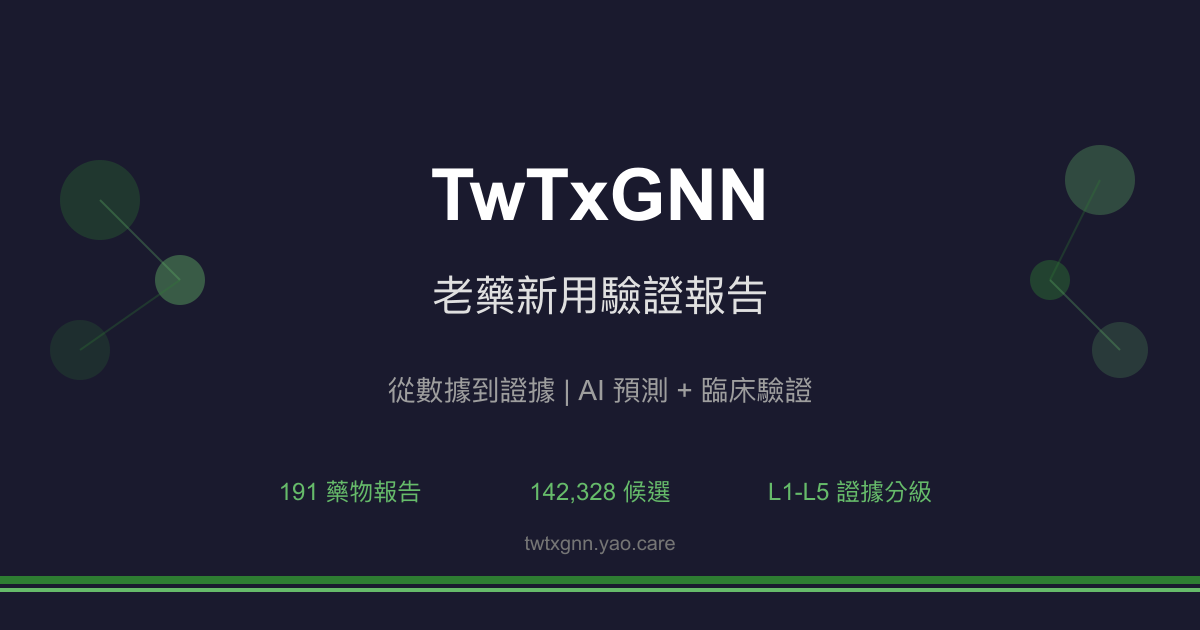
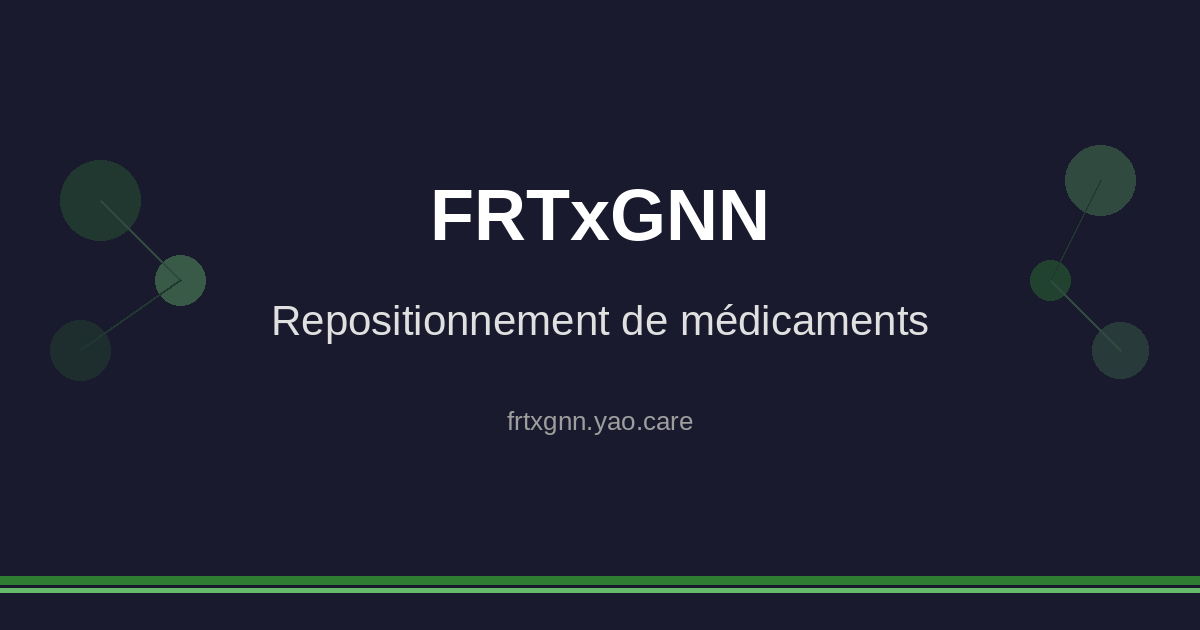
fix: 移除照抄 TwTxGNN 的內容（og 圖、分享按鈕）
- og-default.png／svg：原檔是 TwTxGNN 的圖（TwTxGNN、191 藥物報告、142,328 候選、twtxgnn.yao.care）。
  改由母 repo .claude/gen_og_image.py 產生本站圖：只放站名、網域、本站語言的一行副標（取自 _config.yml title），不放數字。
- assets/images/README.md：設計要求裡的「TwTxGNN」與標語改成本站實際內容，註明產生方式。
- _includes/social-share.html：X hashtag 與 mailto 主旨的 TwTxGNN → FRTxGNN；推文與郵件內文原為中文「老藥新用驗證報告」，按鈕文字原為英文，改成本站語言。（此 include 目前沒有頁面引用，先修正以免日後啟用時帶出 Tw 字樣。）

Claude-Session: https://claude.ai/code/session_013aGXmRzC9hmsD5XtZ9FusM

diff --git a/docs/_includes/social-share.html b/docs/_includes/social-share.html
@@ -1,14 +1,14 @@
-<!-- 學術分享按鈕 -->
+<!-- Share buttons -->
 <div class="social-share" style="margin: 2rem 0; padding: 1.25rem; background: #f8f9fa; border-radius: 8px; border: 1px solid #e0e0e0;">
-  <strong style="display: block; margin-bottom: 0.75rem; color: #333;">Share this report:</strong>
+  <strong style="display: block; margin-bottom: 0.75rem; color: #333;">Partager ce rapport :</strong>
   <div style="display: flex; gap: 0.5rem; flex-wrap: wrap;">
     <!-- Twitter/X -->
-    <a href="https://twitter.com/intent/tweet?text={{ page.title | url_encode }}%20%E8%80%81%E8%97%A5%E6%96%B0%E7%94%A8%E9%A9%97%E8%AD%89%E5%A0%B1%E5%91%8A&url={{ page.url | absolute_url | url_encode }}&hashtags=DrugRepurposing,TwTxGNN"
+    <a href="https://twitter.com/intent/tweet?text={{ page.title | url_encode }}%20Rapport%20de%20repositionnement%20de%20m%C3%A9dicaments&url={{ page.url | absolute_url | url_encode }}&hashtags=DrugRepurposing,FRTxGNN"
        target="_blank" rel="noopener noreferrer"
        style="display: inline-flex; align-items: center; gap: 0.375rem; padding: 0.5rem 1rem; background: #000; color: white; text-decoration: none; border-radius: 6px; font-size: 0.9rem; font-weight: 500; transition: opacity 0.2s;"
        onmouseover="this.style.opacity='0.8'" onmouseout="this.style.opacity='1'">
       <svg width="16" height="16" fill="currentColor" viewBox="0 0 24 24"><path d="M18.244 2.25h3.308l-7.227 8.26 8.502 11.24H16.17l-5.214-6.817L4.99 21.75H1.68l7.73-8.835L1.254 2.25H8.08l4.713 6.231zm-1.161 17.52h1.833L7.084 4.126H5.117z"/></svg>
-      Share on X
+      Partager sur X
     </a>
 
     <!-- LinkedIn -->
@@ -20,16 +20,16 @@
       LinkedIn
     </a>
 
-    <!-- 複製連結 -->
+    <!-- Copy link -->
     <button onclick="copyReportLink(this)"
             style="display: inline-flex; align-items: center; gap: 0.375rem; padding: 0.5rem 1rem; background: #6c757d; color: white; border: none; border-radius: 6px; cursor: pointer; font-size: 0.9rem; font-weight: 500; transition: all 0.2s;"
             onmouseover="this.style.background='#5a6268'" onmouseout="this.style.background='#6c757d'">
       <svg width="16" height="16" fill="currentColor" viewBox="0 0 24 24"><path d="M16 1H4c-1.1 0-2 .9-2 2v14h2V3h12V1zm3 4H8c-1.1 0-2 .9-2 2v14c0 1.1.9 2 2 2h11c1.1 0 2-.9 2-2V7c0-1.1-.9-2-2-2zm0 16H8V7h11v14z"/></svg>
-      <span>Copy link</span>
+      <span>Copier le lien</span>
     </button>
 
     <!-- Email -->
-    <a href="mailto:?subject={{ page.title | url_encode }}%20-%20TwTxGNN&body=%E6%8E%A8%E8%96%A6%E9%80%99%E4%BB%BD%E8%80%81%E8%97%A5%E6%96%B0%E7%94%A8%E9%A9%97%E8%AD%89%E5%A0%B1%E5%91%8A%EF%BC%9A%0A%0A{{ page.url | absolute_url | url_encode }}"
+    <a href="mailto:?subject={{ page.title | url_encode }}%20-%20FRTxGNN&body=Je%20vous%20recommande%20ce%20rapport%20de%20repositionnement%20de%20m%C3%A9dicaments%20%3A%0A%0A{{ page.url | absolute_url | url_encode }}"
        style="display: inline-flex; align-items: center; gap: 0.375rem; padding: 0.5rem 1rem; background: #EA4335; color: white; text-decoration: none; border-radius: 6px; font-size: 0.9rem; font-weight: 500; transition: opacity 0.2s;"
        onmouseover="this.style.opacity='0.8'" onmouseout="this.style.opacity='1'">
       <svg width="16" height="16" fill="currentColor" viewBox="0 0 24 24"><path d="M20 4H4c-1.1 0-1.99.9-1.99 2L2 18c0 1.1.9 2 2 2h16c1.1 0 2-.9 2-2V6c0-1.1-.9-2-2-2zm0 4l-8 5-8-5V6l8 5 8-5v2z"/></svg>
@@ -44,7 +44,7 @@ function copyReportLink(btn) {
   navigator.clipboard.writeText(url).then(() => {
     const span = btn.querySelector('span');
     const originalText = span.textContent;
-    span.textContent = 'Copied!';
+    span.textContent = 'Lien copié !';
     btn.style.background = '#28a745';
     setTimeout(() => {
       span.textContent = originalText;

diff --git a/docs/assets/images/README.md b/docs/assets/images/README.md
@@ -15,11 +15,15 @@ nav_exclude: true
 
 ### 設計要求
 
-1. 包含網站名稱「TwTxGNN」
-2. 包含標語「老藥新用，從數據到證據」
-3. 簡潔、專業風格
-4. 背景純色或簡單圖案
+1. 包含網站名稱「FRTxGNN」與網域
+2. 包含該站語言的一行副標（取自 _config.yml 的 title）
+3. 不放藥物數、候選數等數字（會過期）
+4. 簡潔、專業風格
 5. 適合在社群媒體預覽顯示
+
+### 產生方式
+
+由 TxGNN 母 repo 的 `.claude/gen_og_image.py` 產生（同時輸出 og-default.svg）。
 
 ### 使用位置
 
